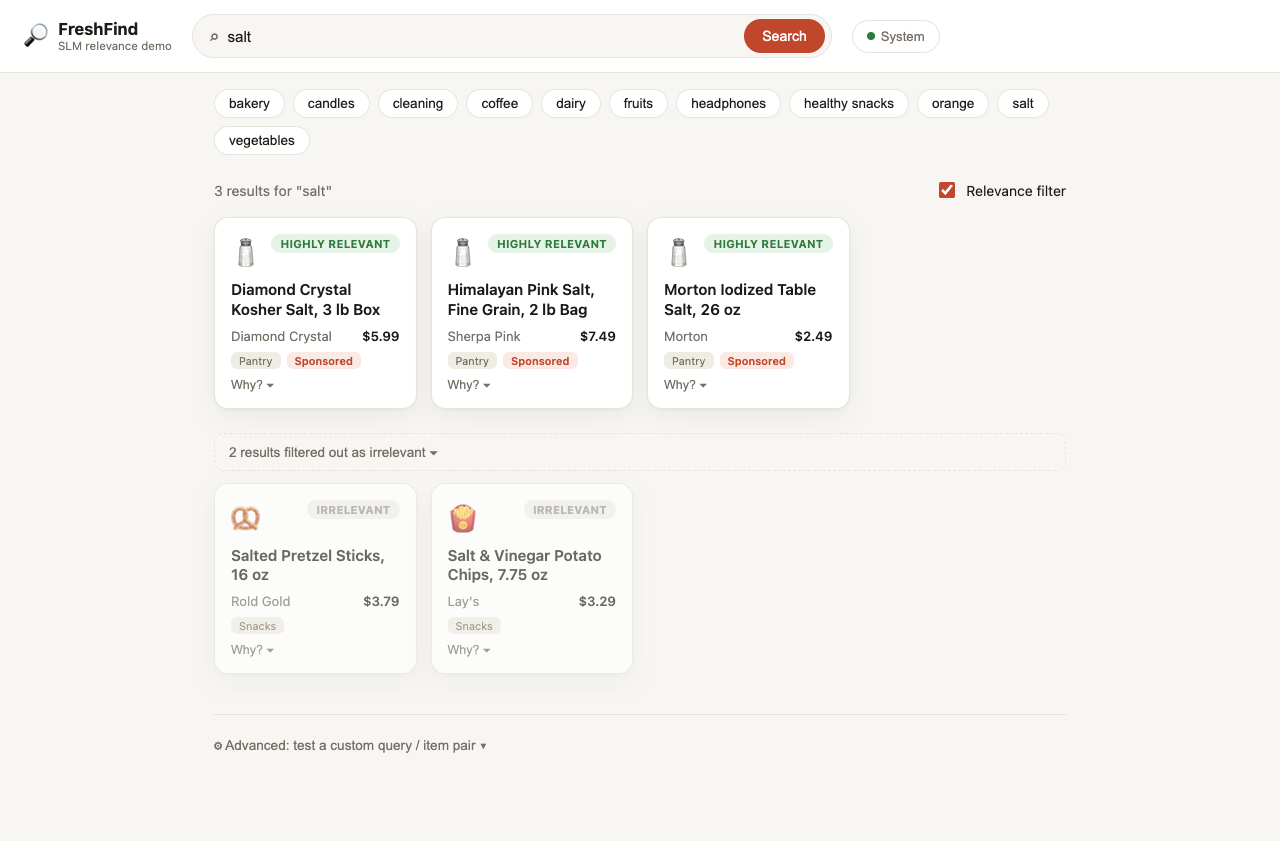
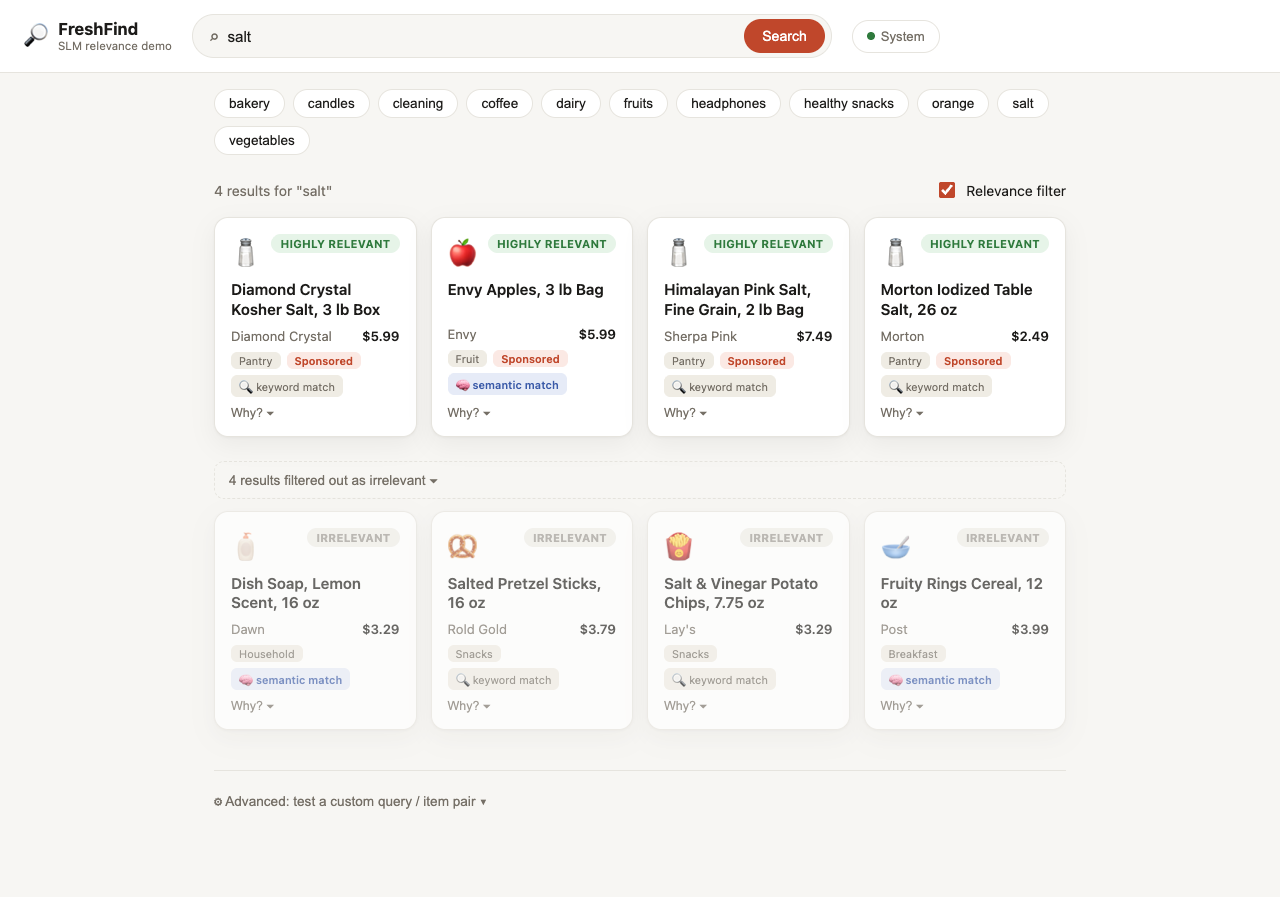
Add hybrid (keyword + semantic) retrieval
Naive keyword matching can only find items sharing a word stem with the
query -- "cleaning" never surfaced paper towels, laundry detergent, or dish
soap, since none of those titles contain "clean". Adds dense embedding
similarity search (retrieval/semantic_retrieve.py, all-MiniLM-L6-v2) as a
second retrieval signal, unioned with keyword matches rather than replacing
them, matching how real hybrid search systems layer dense retrieval on top
of lexical search.

Deliberately uses a separate general-purpose embedding model rather than the
relevance bi-encoder's own embeddings: the bi-encoder was trained through a
bilinear scorer, not a contrastive objective, so nothing guarantees its
embeddings behave sensibly under plain cosine similarity.

Net effect on the demo catalog: "cleaning" goes from 2 retrievable items to
6, all correctly judged relevant. It also surfaces a new, honestly-documented
failure mode -- expanding recall exposes the relevance model to candidates
it was never calibrated for (a semantic-only match, "Envy Apples", scores
"highly relevant" for the query "salt"). Not a retrieval bug; a relevance
blind spot retrieval can now actually reach.

Frontend shows a badge per result indicating whether it was found by keyword
matching, semantic matching, or both.

diff --git a/serve/static/index.html b/serve/static/index.html
@@ -39,10 +39,12 @@
     <span id="status-ollama" class="status-value">checking…</span>
   </div>
   <p class="status-note">
-    Search runs a naive keyword retrieval over a small demo catalog (recall-first,
-    same as the blog's incumbent retrieval step), then the SLM scores and — when the
-    filter toggle is on — removes/reranks results by predicted relevance, the way it
-    sits before the ad auction in the original design.
+    Search runs hybrid retrieval over a small demo catalog — naive keyword
+    matching plus dense semantic search (a sentence-embedding model finding
+    conceptually related items with no shared words, e.g. "cleaning" →
+    "paper towels") — then the SLM scores and, when the filter toggle is on,
+    removes/reranks results by predicted relevance, the way it sits before
+    the ad auction in the original design.
   </p>
 </div>
 

diff --git a/serve/static/style.css b/serve/static/style.css
@@ -14,6 +14,8 @@
   --bad: #9a9690;
   --bad-soft: #efeee9;
   --chip-bg: #efece4;
+  --semantic: #3a5aa8;
+  --semantic-soft: #e6ebf7;
   --shadow: 0 1px 2px rgba(20, 18, 14, 0.04), 0 8px 24px rgba(20, 18, 14, 0.06);
 }
 
@@ -34,6 +36,8 @@
     --bad: #8b877f;
     --bad-soft: #2a2b2f;
     --chip-bg: #2a2c31;
+    --semantic: #8fa8e8;
+    --semantic-soft: #232b3d;
     --shadow: 0 1px 2px rgba(0, 0, 0, 0.3), 0 8px 24px rgba(0, 0, 0, 0.35);
   }
 }
@@ -232,6 +236,7 @@ main { max-width: 900px; margin: 0 auto; padding: 16px 24px 64px; }
   border-radius: 6px;
 }
 .tag.sponsored { background: var(--accent-soft); color: var(--accent); font-weight: 600; }
+.tag.semantic-only { background: var(--semantic-soft); color: var(--semantic); font-weight: 600; }
 
 .card-why {
   margin-top: auto;

diff --git a/serve/static/app.js b/serve/static/app.js
@@ -57,6 +57,14 @@ function buildCard(item, { dimmed = false } = {}) {
     spTag.textContent = "Sponsored";
     tags.appendChild(spTag);
   }
+  if (item.found_by) {
+    const foundTag = document.createElement("span");
+    const bySemanticOnly = item.found_by.length === 1 && item.found_by[0] === "semantic";
+    foundTag.className = "tag" + (bySemanticOnly ? " semantic-only" : "");
+    foundTag.textContent = bySemanticOnly ? "🧠 semantic match" : "🔍 keyword match";
+    foundTag.title = `Found by: ${item.found_by.join(" + ")}`;
+    tags.appendChild(foundTag);
+  }
 
   const whyBtn = node.querySelector(".card-why");
   const whyPanel = node.querySelector(".card-why-panel");

diff --git a/serve/app.py b/serve/app.py
@@ -21,6 +21,7 @@ from pydantic import BaseModel
 sys.path.insert(0, str(Path(__file__).resolve().parent.parent))
 from serve.predict import RelevanceServer, RELEVANCE_LABELS  # noqa: E402
 from teacher.label_with_ollama import call_ollama, check_ollama_reachable  # noqa: E402
+from retrieval.semantic_retrieve import SemanticRetriever  # noqa: E402
 
 ROOT = Path(__file__).resolve().parent.parent
 CHECKPOINT_PATH = ROOT / "checkpoints" / "bi_encoder.pt"
@@ -31,6 +32,7 @@ app = FastAPI(title="SLM Relevance Tester")
 app.mount("/static", StaticFiles(directory=STATIC_DIR), name="static")
 
 _server: RelevanceServer | None = None
+_semantic_retriever: SemanticRetriever | None = None
 CATALOG = json.loads(CATALOG_PATH.read_text())
 
 
@@ -39,6 +41,13 @@ def get_server() -> RelevanceServer | None:
     if _server is None and CHECKPOINT_PATH.exists():
         _server = RelevanceServer(str(CHECKPOINT_PATH))
     return _server
+
+
+def get_semantic_retriever() -> SemanticRetriever:
+    global _semantic_retriever
+    if _semantic_retriever is None:
+        _semantic_retriever = SemanticRetriever(CATALOG)
+    return _semantic_retriever
 
 
 def item_text(item: dict) -> str:
@@ -71,6 +80,27 @@ def keyword_retrieve(query: str, limit: int = 12) -> list[dict]:
             scored.append((matches, item))
     scored.sort(key=lambda pair: -pair[0])
     return [item for _, item in scored[:limit]]
+
+
+def hybrid_retrieve(query: str) -> list[dict]:
+    """Stage 1 of the funnel, recall-oriented: unions naive keyword matches
+    with dense semantic matches (retrieval/semantic_retrieve.py), so an item
+    with no shared word stem -- "Paper Towels" for a "cleaning" query -- can
+    still surface via meaning instead of being invisible to the pipeline
+    before the relevance model ever gets a chance to judge it. Each result
+    carries which method(s) found it, purely for the UI to show its work."""
+    keyword_hits = {item["item_id"]: item for item in keyword_retrieve(query)}
+    semantic_hits = {item["item_id"]: item for item, _ in get_semantic_retriever().retrieve(query)}
+
+    merged = {}
+    for item_id, item in {**keyword_hits, **semantic_hits}.items():
+        found_by = []
+        if item_id in keyword_hits:
+            found_by.append("keyword")
+        if item_id in semantic_hits:
+            found_by.append("semantic")
+        merged[item_id] = {**item, "found_by": found_by}
+    return list(merged.values())
 
 
 class Item(BaseModel):
@@ -117,11 +147,12 @@ def catalog():
 
 @app.post("/api/search")
 def search(req: SearchRequest):
-    """The full funnel in one call: naive keyword retrieval over the demo
-    catalog, then (if a checkpoint is trained) the SLM relevance model scores
-    and, when use_filter is on, filters/ranks the candidates -- the same
-    pre-auction gate serve/predict.py demonstrates from the CLI."""
-    candidates = keyword_retrieve(req.query)
+    """The full funnel in one call: hybrid (keyword + semantic) retrieval
+    over the demo catalog, then (if a checkpoint is trained) the SLM
+    relevance model scores and, when use_filter is on, filters/ranks the
+    candidates -- the same pre-auction gate serve/predict.py demonstrates
+    from the CLI."""
+    candidates = hybrid_retrieve(req.query)
     server = get_server()
 
     results = []

diff --git a/retrieval/semantic_retrieve.py b/retrieval/semantic_retrieve.py
@@ -1,0 +1,36 @@
+"""Semantic retrieval: dense embedding similarity search over the catalog,
+recall-oriented like keyword_retrieve (serve/app.py) and meant to be unioned
+with it, not replace it -- exactly the "add vector search alongside keyword
+search" upgrade real hybrid search systems make.
+
+Deliberately uses a general-purpose sentence-embedding model
+(all-MiniLM-L6-v2) rather than the relevance bi-encoder's own embeddings.
+The bi-encoder was trained through a bilinear scorer, not a contrastive
+objective -- nothing pushed its query/item embeddings to sit close together
+in cosine-similarity terms for a true match, so raw cosine similarity in
+that space isn't guaranteed to mean what we'd want it to. all-MiniLM-L6-v2
+is trained specifically so cosine similarity reflects semantic relatedness,
+which is the actual property retrieval needs.
+"""
+import numpy as np
+from sentence_transformers import SentenceTransformer
+
+MODEL_NAME = "sentence-transformers/all-MiniLM-L6-v2"
+
+
+def item_text(item: dict) -> str:
+    return f"{item['title']} {item['brand']} {item['category']}"
+
+
+class SemanticRetriever:
+    def __init__(self, catalog: list[dict], model_name: str = MODEL_NAME):
+        self.model = SentenceTransformer(model_name)
+        self.catalog = catalog
+        texts = [item_text(item) for item in catalog]
+        self.item_embeddings = self.model.encode(texts, normalize_embeddings=True)
+
+    def retrieve(self, query: str, top_k: int = 8, min_similarity: float = 0.2) -> list[tuple[dict, float]]:
+        query_emb = self.model.encode([query], normalize_embeddings=True)[0]
+        sims = self.item_embeddings @ query_emb  # cosine similarity (both sides normalized)
+        ranked_idx = np.argsort(-sims)[:top_k]
+        return [(self.catalog[i], float(sims[i])) for i in ranked_idx if sims[i] >= min_similarity]

diff --git a/docs/screenshots/capture.py b/docs/screenshots/capture.py
@@ -32,19 +32,28 @@ with sync_playwright() as p:
     page.wait_for_timeout(200)
     crop_to_content(page, f"{OUT}/search_filtered.png")
 
+    # 1b. "cleaning" query -- shows the semantic-match badge on items the
+    # keyword matcher alone could never find (e.g. "Paper Towels")
+    page.fill("#query", "cleaning")
+    page.click("#search-btn")
+    page.wait_for_selector(".card")
+    page.wait_for_timeout(300)
+    crop_to_content(page, f"{OUT}/semantic_retrieval.png")
+    page.fill("#query", "salt")
+    page.click("#search-btn")
+    page.wait_for_selector(".card")
+    page.wait_for_timeout(300)
+
     # 2. Same query, relevance filter OFF -- raw keyword retrieval
     page.click("#filter-toggle")
     page.wait_for_timeout(300)
     crop_to_content(page, f"{OUT}/search_unfiltered.png")
 
-    # 3. "Why?" panel expanded on a card, showing SLM score
+    # 3. "Why?" panel expanded, then ask-the-local-teacher comparison filled in
     page.click("#filter-toggle")  # back on
     page.wait_for_timeout(300)
     page.click(".card .card-why")
     page.wait_for_timeout(200)
-    crop_to_content(page, f"{OUT}/why_panel.png")
-
-    # 4. Ask-the-local-teacher comparison filled in
     page.click(".card .teacher-btn")
     page.wait_for_selector(".card .teacher-answer strong", timeout=20000)
     page.wait_for_timeout(200)

diff --git a/README.md b/README.md
@@ -34,18 +34,23 @@ This project reimplements that architecture end to end, swapping DoorDash's prop
 | AdamW training with validation-accuracy checkpoint selection | [`model/train.py`](model/train.py) |
 | Precision@2 / NDCG@10 evaluation | [`model/evaluate.py`](model/evaluate.py) |
 | Offline embedding cache + cheap online scoring, relevance gate ahead of the auction | [`serve/predict.py`](serve/predict.py) (CLI) and [`serve/app.py`](serve/app.py) (web UI) |
+| Keyword-based retrieval stage (recall-oriented) ahead of relevance filtering | [`serve/app.py`](serve/app.py)'s `hybrid_retrieve` — keyword matching **plus** dense semantic search ([`retrieval/semantic_retrieve.py`](retrieval/semantic_retrieve.py)), so items with no shared vocabulary (e.g. "cleaning" → "paper towels") aren't invisible before the relevance model gets a chance to judge them |
 
 **Fully local.** The teacher runs against whatever model is already pulled in Ollama; the student (a ~66M-parameter DistilBERT) trains and serves entirely on-device. Nothing in the default configuration calls out to a cloud API.
 
 ## Demo
 
-A search-engine-style UI demonstrates the complete funnel — naive keyword retrieval followed by relevance filtering — rather than just the model in isolation.
+A search-engine-style UI demonstrates the complete funnel — hybrid retrieval followed by relevance filtering — rather than just the model in isolation.
 
-**Relevance filter off** — raw keyword retrieval, optimized for recall. Every item sharing a word with the query is returned, salt-and-vinegar chips included:
+**Relevance filter off** — raw retrieval results, optimized for recall. Every item sharing a word with the query is returned, salt-and-vinegar chips included:
 
 ![Unfiltered search results for "salt", showing all keyword matches including irrelevant items like salt & vinegar chips](docs/screenshots/search_unfiltered.png)
 
 **Relevance filter on** — the trained model scores and reranks the same candidates, moving anything predicted irrelevant into a collapsed section (shown expanded above in the first screenshot).
+
+**Semantic retrieval finding what keyword matching can't** — a dense embedding model runs alongside the keyword matcher, so a query like "cleaning" also surfaces items with no shared vocabulary at all — paper towels, laundry detergent — tagged distinctly so the improvement is visible:
+
+![Search results for "cleaning" showing items found via semantic match (paper towels, laundry detergent, dish soap) that keyword matching alone would have missed entirely](docs/screenshots/semantic_retrieval.png)
 
 **Comparing student and teacher live** — each result has a "Why?" breakdown showing the small model's score, plus a button to ask the local teacher model for a second opinion on the same pair:
 
@@ -107,6 +112,12 @@ The 85% figure above turned out to be **inflated by a data leak**: oversampling 
 
 The fix — split the unique examples first, then oversample only the training side — is implemented in [`data/merge_training_data.py`](data/merge_training_data.py). [`model/train.py`](model/train.py) honors an explicit `"split"` field per row when present, instead of always re-splitting randomly.
 
+## Retrieval: finding what keyword matching can't
+
+The demo catalog's naive keyword matcher can only find items that share a word stem with the query — "cleaning" never surfaced paper towels, laundry detergent, or dish soap, because none of those titles contain the word "clean." [`retrieval/semantic_retrieve.py`](retrieval/semantic_retrieve.py) adds dense embedding similarity search alongside it, using a general-purpose sentence-embedding model (`all-MiniLM-L6-v2`) rather than the relevance bi-encoder's own embeddings — the bi-encoder was trained through a bilinear scorer, not a contrastive objective, so nothing guarantees its embeddings behave sensibly under plain cosine similarity, which is exactly the property retrieval needs.
+
+The union of both signals ("cleaning" now returns 6 relevant items instead of 2) is a clear net improvement, but it also surfaces a new failure mode worth naming honestly: expanding recall exposes the relevance model to candidate pairs it was never well-calibrated for. On one query, "Envy Apples" — retrieved only via semantic similarity — was scored "highly relevant" for the query "salt," which is wrong. That's not a retrieval bug; it's the relevance model's blind spot becoming visible now that retrieval can actually reach it. Fixing it would mean the same domain-matched-data treatment described above, applied to the newly-expanded candidate pool.
+
 ## Scope and limitations
 
 This is a from-scratch reimplementation of DoorDash's *architecture*, not their system or data — trained on thousands of examples on a single machine, not the hundreds of thousands to millions DoorDash used across distributed infrastructure. Several shortcuts here would need to be addressed before anything like this reached production:
@@ -130,6 +141,7 @@ model/coral_loss.py                 CORAL ordinal-regression loss + head
 model/dataset.py                    tokenization / batching
 model/train.py                      training loop
 model/evaluate.py                   accuracy, Precision@2, NDCG@10
+retrieval/semantic_retrieve.py      dense embedding retrieval (Stage 1, alongside keyword matching)
 serve/predict.py                    CLI: cached-embedding scoring + relevance gate
 serve/app.py                        web UI backend (FastAPI)
 serve/static/                       web UI frontend (HTML/CSS/JS)
